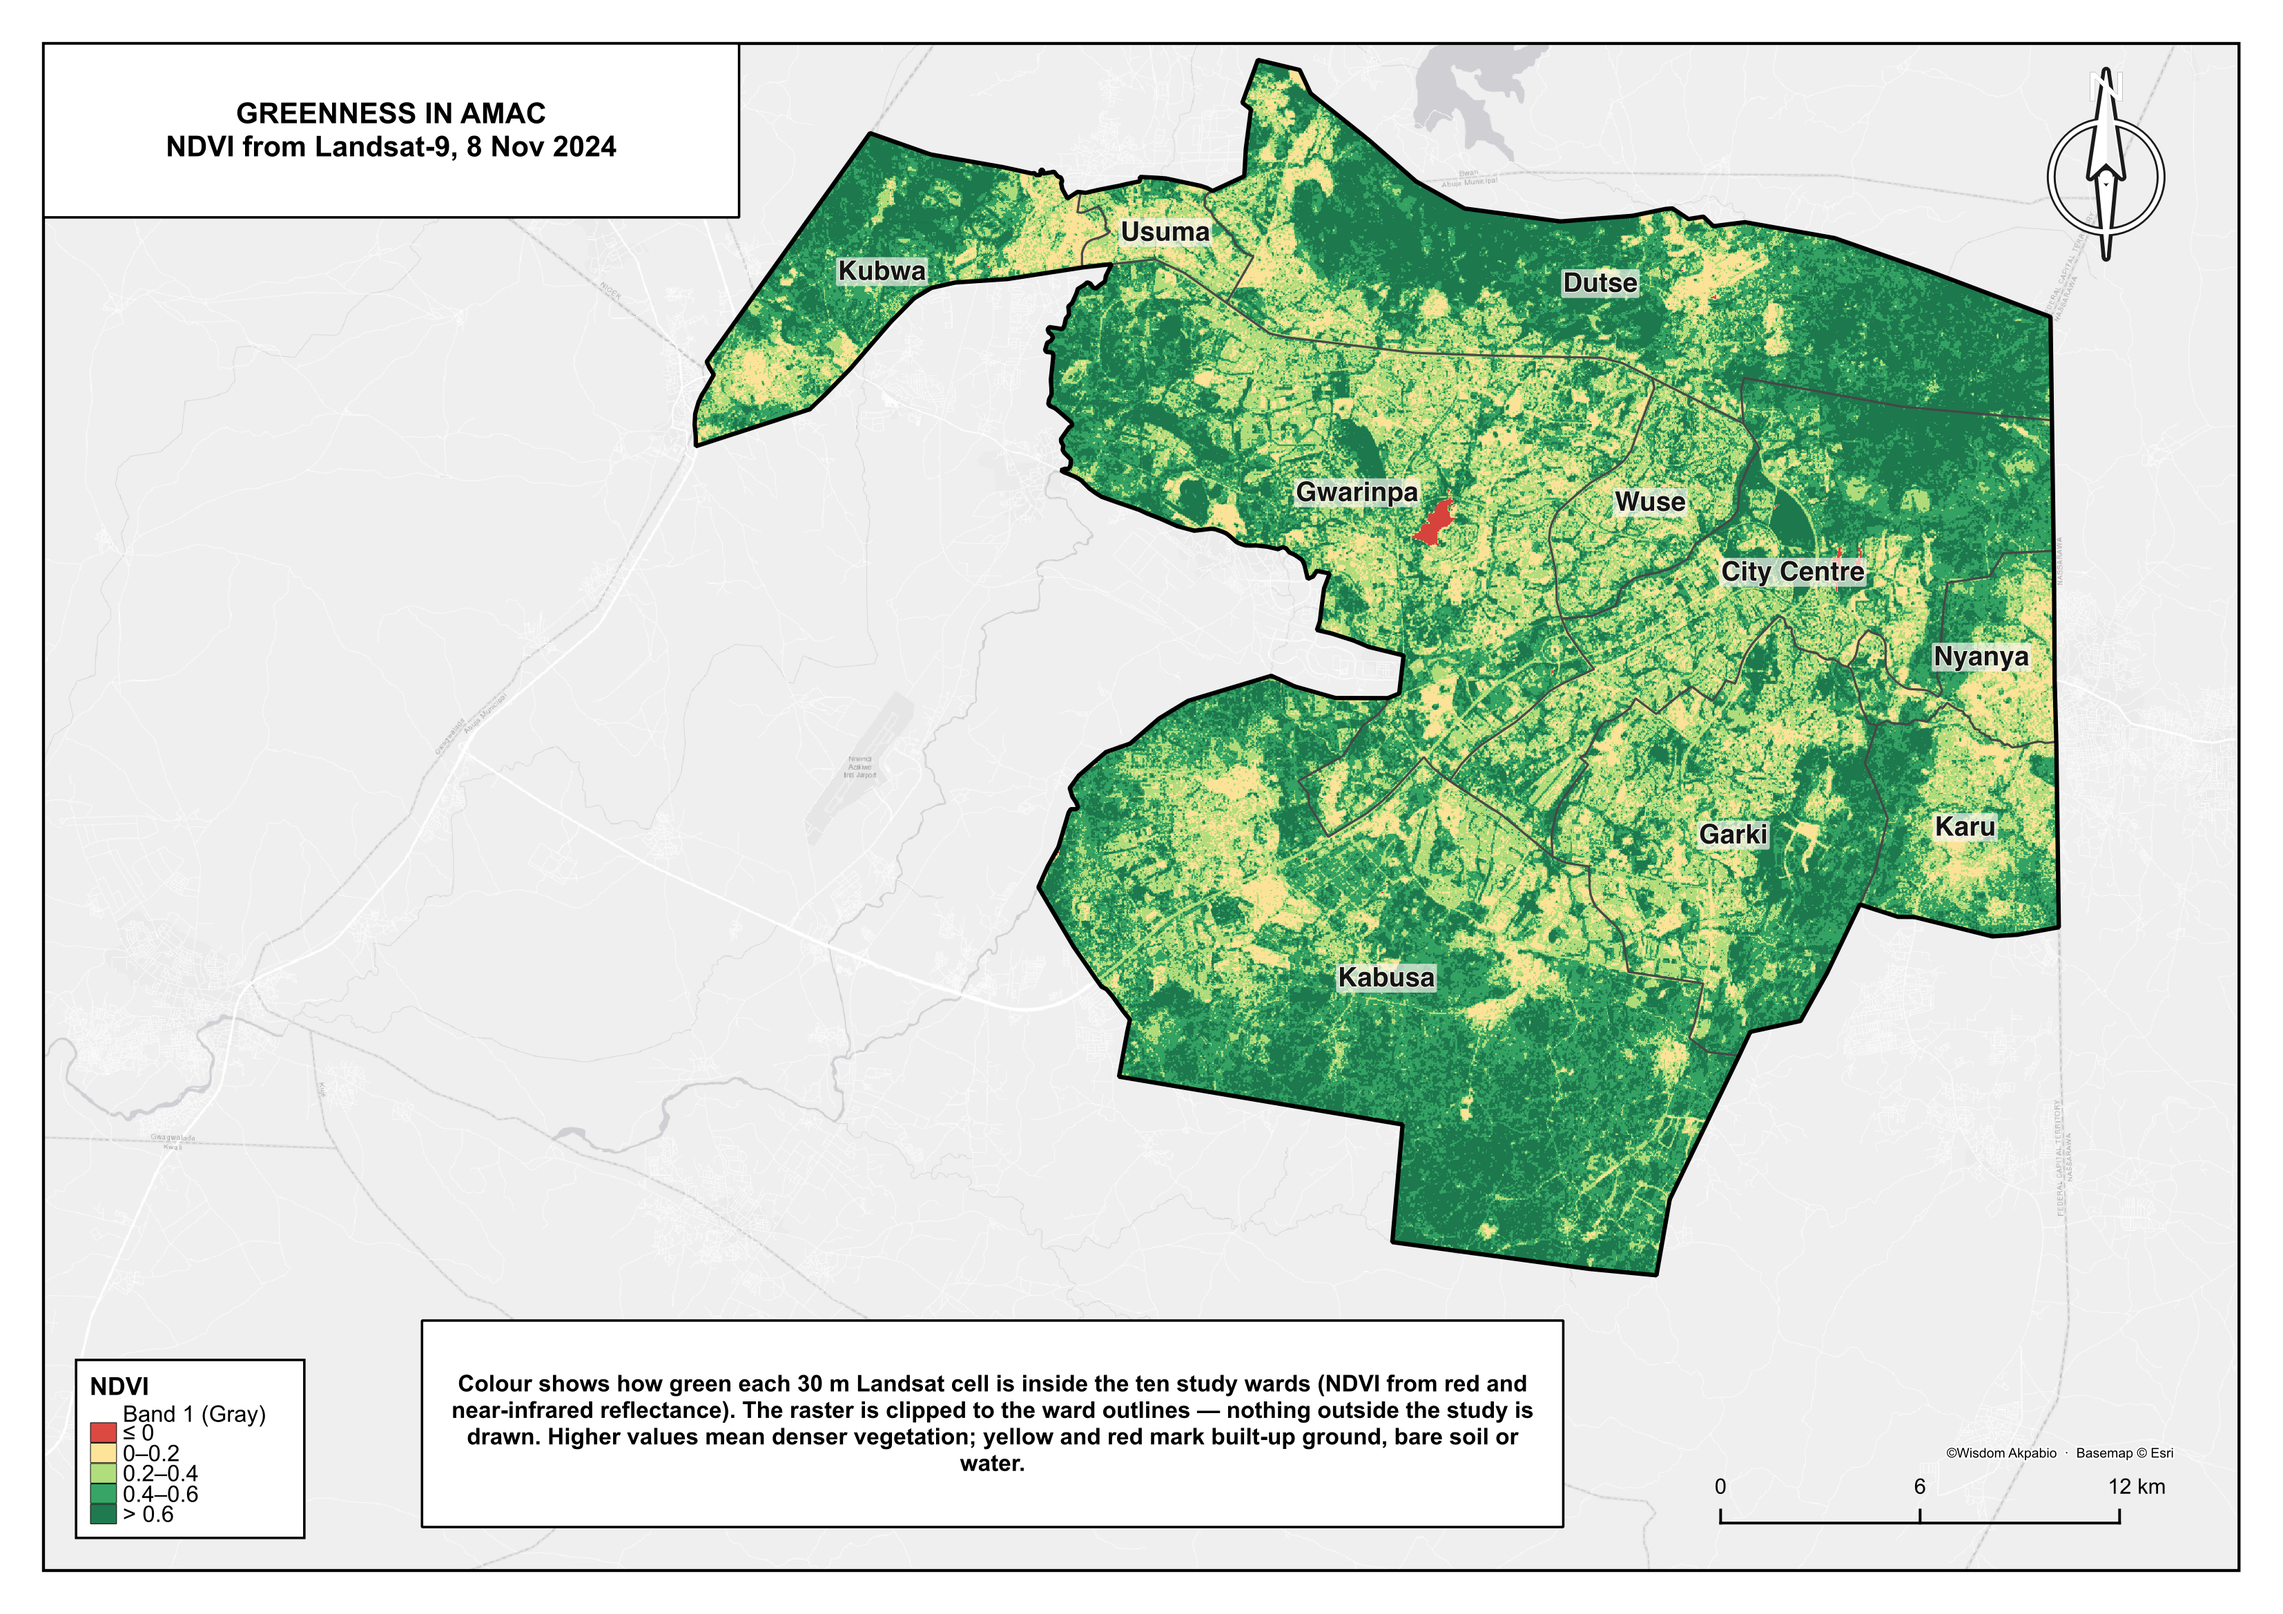
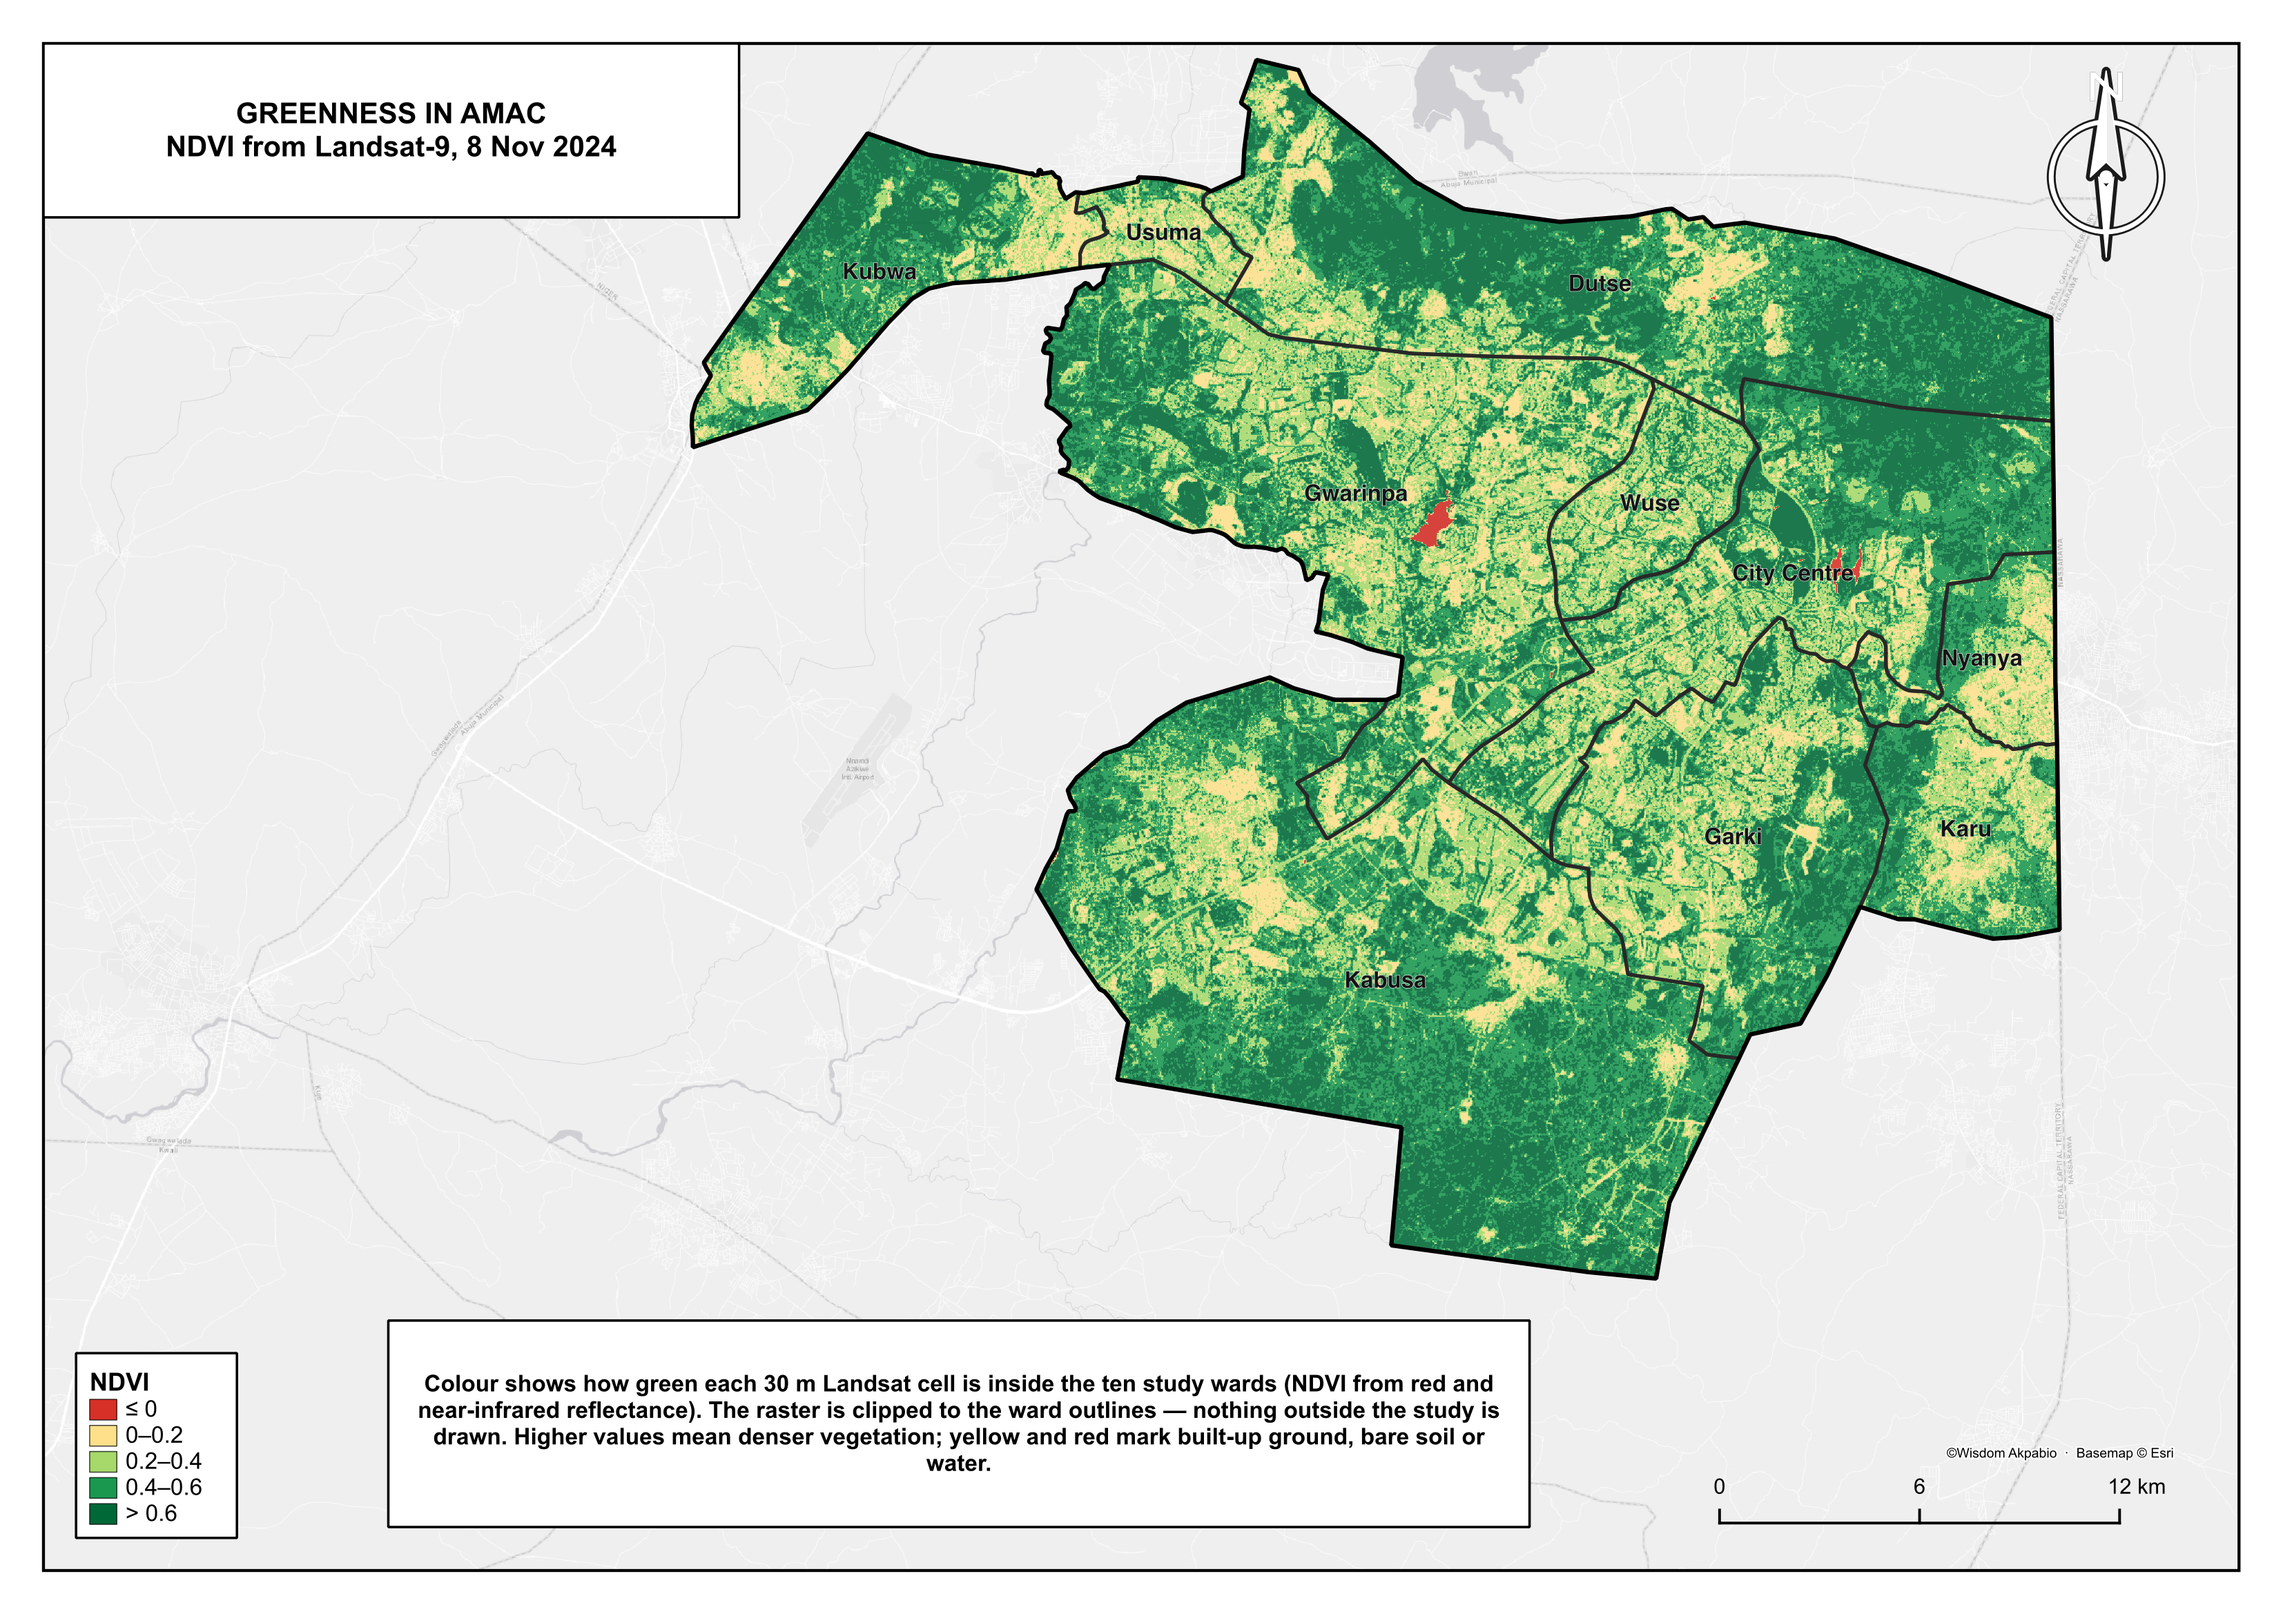
Week 12: snug NDVI legend, thinner labels, stronger ward lines

diff --git a/scripts/build_week12_ndvi_plate.py b/scripts/build_week12_ndvi_plate.py
@@ -23,7 +23,6 @@ from qgis.core import (  # noqa: E402
     QgsLayoutExporter,
     QgsLayoutItem,
     QgsLayoutItemLabel,
-    QgsLayoutItemLegend,
     QgsLayoutItemMap,
     QgsLayoutItemPicture,
     QgsLayoutItemScaleBar,
@@ -31,8 +30,6 @@ from qgis.core import (  # noqa: E402
     QgsLayoutMeasurement,
     QgsLayoutPoint,
     QgsLayoutSize,
-    QgsLegendRenderer,
-    QgsLegendStyle,
     QgsPalLayerSettings,
     QgsPointXY,
     QgsPrintLayout,
@@ -202,25 +199,20 @@ def _ward_labels(layer: QgsVectorLayer) -> None:
     settings.setUnplacedVisibility(Qgis.UnplacedLabelVisibility.NeverShow)
     settings.placementSettings().setOverlapHandling(Qgis.LabelOverlapHandling.AllowOverlapAtNoCost)
     fmt = QgsTextFormat()
-    font = QFont("Helvetica", 14, QFont.Bold)
+    font = QFont("Helvetica", 12, QFont.Bold)
     fmt.setFont(font)
-    fmt.setSize(14)
+    fmt.setSize(12)
     fmt.setSizeUnit(QgsUnitTypes.RenderPoints)
     fmt.setColor(QColor(20, 20, 20))
     buf = QgsTextBufferSettings()
     buf.setEnabled(True)
-    buf.setSize(0.35)
+    buf.setSize(0.15)
     buf.setSizeUnit(QgsUnitTypes.RenderMillimeters)
-    buf.setColor(QColor(252, 248, 240))
+    buf.setColor(QColor(255, 255, 255))
     fmt.setBuffer(buf)
+    # No cream pill — thin white halo only.
     bg = QgsTextBackgroundSettings()
-    bg.setEnabled(True)
-    bg.setType(QgsTextBackgroundSettings.ShapeRectangle)
-    bg.setFillColor(QColor(252, 248, 240, 170))
-    bg.setStrokeWidth(0)
-    bg.setSizeType(QgsTextBackgroundSettings.SizeBuffer)
-    bg.setSize(QSizeF(0.35, 0.18))
-    bg.setRadii(QSizeF(0.4, 0.4))
+    bg.setEnabled(False)
     fmt.setBackground(bg)
     settings.setFormat(fmt)
     pins = ",".join(f"'{n}'" for n in PINNED)
@@ -255,58 +247,69 @@ def _style_ndvi(layer: QgsRasterLayer) -> None:
     layer.setOpacity(0.88)
 
 
-def _legend(layout, map_item, ndvi, wards) -> QgsLayoutItemLegend:
-    legend = QgsLayoutItemLegend(layout)
-    legend.setLinkedMap(map_item)
-    legend.setTitle(LEGEND_TITLE)
-    legend.setTitleAlignment(Qt.AlignLeft)
-    legend.setStyleFont(QgsLegendStyle.Title, QFont("Arial", 13, QFont.Bold))
-    legend.setStyleFont(QgsLegendStyle.Subgroup, QFont("Arial", 11))
-    legend.setStyleFont(QgsLegendStyle.SymbolLabel, QFont("Arial", 12))
-    legend.setFontColor(QColor(0, 0, 0))
-    legend.setSymbolWidth(4.8)
-    legend.setSymbolHeight(3.6)
-    legend.setBoxSpace(2.5)
-    legend.setColumnSpace(0)
-    legend.setLineSpacing(0.05)
-    legend.setStyleMargin(QgsLegendStyle.Title, QgsLegendStyle.Bottom, 0.8)
-    legend.setStyleMargin(QgsLegendStyle.Symbol, 0.15)
-    legend.setStyleMargin(QgsLegendStyle.SymbolLabel, QgsLegendStyle.Left, 1.0)
-    legend.setStyleMargin(QgsLegendStyle.Group, QgsLegendStyle.Top, 0.4)
-    legend.setFrameEnabled(True)
-    legend.setFrameStrokeColor(QColor(0, 0, 0))
-    legend.setFrameStrokeWidth(QgsLayoutMeasurement(0.45, MM))
-    legend.setBackgroundColor(QColor(255, 255, 255))
-    legend.setBackgroundEnabled(True)
-    legend.setAutoUpdateModel(False)
-    root = legend.model().rootGroup()
-    for child in list(root.children()):
-        root.removeChildNode(child)
-    # NDVI classes only; ward lines stay on the map without a legend row.
-    node = root.addLayer(ndvi)
-    QgsLegendRenderer.setNodeLegendStyle(node, QgsLegendStyle.Hidden)
-    legend.setZValue(20)
-    layout.addLayoutItem(legend)
-    pad = float(legend.boxSpace())
-    rows = 5
-    target_w = 42.0
-    target_h = 2.0 * pad + 5.5 + rows * (float(legend.symbolHeight()) + 0.85)
-    legend.setResizeToContents(True)
-    legend.setReferencePoint(QgsLayoutItem.UpperLeft)
-    legend.attemptMove(QgsLayoutPoint(14.0, 200.0, MM))
-    legend.attemptResize(QgsLayoutSize(target_w, target_h, MM))
-    legend.refresh()
-    legend.adjustBoxSize()
-    measured = legend.sizeWithUnits()
-    mw, mh = float(measured.width()), float(measured.height())
-    w = mw if 32.0 <= mw <= target_w + 6.0 else target_w
-    h = mh if 22.0 <= mh <= target_h + 3.0 else target_h
-    legend.setResizeToContents(False)
-    legend.setReferencePoint(QgsLayoutItem.LowerLeft)
-    legend.attemptResize(QgsLayoutSize(w, h, MM))
-    legend.attemptMove(QgsLayoutPoint(14.0, 283.0, MM))
-    print(f"  legend measured {mw:.1f}×{mh:.1f} mm → {w:.1f}×{h:.1f} mm")
-    return legend
+NDVI_CLASSES = [
+    (QColor(215, 48, 39), "≤ 0"),
+    (QColor(254, 224, 139), "0–0.2"),
+    (QColor(166, 217, 106), "0.2–0.4"),
+    (QColor(26, 152, 80), "0.4–0.6"),
+    (QColor(0, 104, 55), "> 0.6"),
+]
+
+
+def _legend(layout) -> QgsLayoutItemShape:
+    """Hand-built legend: title + range rows only (no Band 1 / Gray noise)."""
+    inset = 2.5
+    sw, sh = 5.0, 3.8
+    row_gap = 1.0
+    title_h = 6.0
+    label_gap = 1.6
+    rows = len(NDVI_CLASSES)
+    inner_h = title_h + rows * sh + (rows - 1) * row_gap
+    # widest label "~0.2–0.4" ≈ 18 mm at 12 pt
+    box_w = inset + sw + label_gap + 18.0 + inset
+    box_h = inset + inner_h + inset
+    box_x, box_y = 14.0, 283.0 - box_h
+    panel = _white_box(layout, box_x, box_y, box_w, box_h)
+
+    title = QgsLayoutItemLabel(layout)
+    title.setText(LEGEND_TITLE)
+    title.setFont(QFont("Arial", 13, QFont.Bold))
+    title.setFontColor(QColor(0, 0, 0))
+    title.setHAlign(Qt.AlignLeft)
+    title.setVAlign(Qt.AlignVCenter)
+    title.setZValue(21)
+    _place(layout, title, box_x + inset, box_y + inset, box_w - 2 * inset, title_h)
+
+    y0 = box_y + inset + title_h
+    for i, (color, label) in enumerate(NDVI_CLASSES):
+        y = y0 + i * (sh + row_gap)
+        swatch = QgsLayoutItemShape(layout)
+        swatch.setShapeType(QgsLayoutItemShape.Rectangle)
+        swatch.setSymbol(
+            QgsFillSymbol.createSimple(
+                {
+                    "color": f"{color.red()},{color.green()},{color.blue()},255",
+                    "outline_color": "0,0,0,180",
+                    "outline_width": "0.2",
+                    "outline_width_unit": "MM",
+                }
+            )
+        )
+        swatch.setFrameEnabled(False)
+        swatch.setZValue(21)
+        _place(layout, swatch, box_x + inset, y, sw, sh)
+
+        lab = QgsLayoutItemLabel(layout)
+        lab.setText(label)
+        lab.setFont(QFont("Arial", 12))
+        lab.setFontColor(QColor(0, 0, 0))
+        lab.setHAlign(Qt.AlignLeft)
+        lab.setVAlign(Qt.AlignVCenter)
+        lab.setZValue(21)
+        _place(layout, lab, box_x + inset + sw + label_gap, y, 18.0, sh)
+
+    print(f"  legend {box_w:.1f}×{box_h:.1f} mm at ({box_x:.0f},{box_y:.0f})")
+    return panel
 
 
 def main() -> Path:
@@ -340,8 +343,8 @@ def main() -> Path:
             QgsFillSymbol.createSimple(
                 {
                     "color": "0,0,0,0",
-                    "outline_color": "70,70,70,220",
-                    "outline_width": "0.38",
+                    "outline_color": "40,40,40,255",
+                    "outline_width": "0.65",
                     "outline_width_unit": "MM",
                 }
             )
@@ -427,7 +430,7 @@ def main() -> Path:
     north.setZValue(20)
     _place(layout, north, 372, 10, 34, 42)
 
-    legend = _legend(layout, map_item, ndvi, wards)
+    legend = _legend(layout)
     leg_w = legend.sizeWithUnits().width()
 
     scale = QgsLayoutItemScaleBar(layout)

diff --git a/month-03/week-12/my_index.py b/month-03/week-12/my_index.py
@@ -61,6 +61,7 @@ with rasterio.open(tmp) as src:
     )
     with rasterio.open(OUT_TIF, "w", **out_profile) as dst:
         dst.write(clipped[0], 1)
+        dst.set_band_description(1, "NDVI")
 
 valid = clipped[0][np.isfinite(clipped[0])]
 print("NDVI clipped to study wards")
